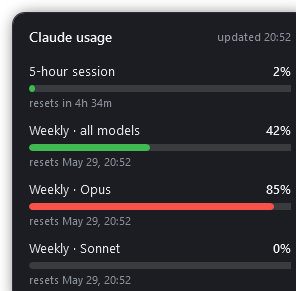
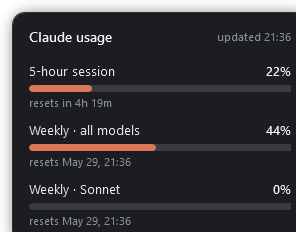
Switch accent to Claude clay; simplify severity to clay/red
Replace the green healthy tier with Claude's clay (#D97757) and drop the
amber middle tier: bars and badge are clay during normal use and turn red
only when a window is critical (>= 80%). Clay reads as a caution hue, so a
clay/amber/red scale was muddy; clay-normal / red-critical keeps clay as the
identity color with red as the sole alarm.

Regenerate docs/flyout.png; refresh docs/menu.png.

Changed region(s): [[0.0912, 0.0905, 1.0, 0.9957], [0.0304, 0.0302, 1.0, 0.0905], [0.7297, 0.0905, 1.0, 0.181]]

diff --git a/src/Severity.cs b/src/Severity.cs
@@ -2,18 +2,18 @@ using System.Windows.Media;
 
 namespace ClaudeStatus;
 
-/// <summary>Shared green/amber/red palette so the tray badge and flyout agree.</summary>
+/// <summary>Shared palette + severity logic for the tray badge and flyout bars.</summary>
 public static class Severity
 {
-    public static readonly Color Green = Color.FromRgb(0x3F, 0xB9, 0x50);
-    public static readonly Color Amber = Color.FromRgb(0xD2, 0x99, 0x22);
+    /// <summary>Claude's clay accent — normal usage.</summary>
+    public static readonly Color Clay = Color.FromRgb(0xD9, 0x77, 0x57);
+
+    /// <summary>Critical — running low on a window.</summary>
     public static readonly Color Red = Color.FromRgb(0xF8, 0x51, 0x49);
+
+    /// <summary>No data available.</summary>
     public static readonly Color Gray = Color.FromRgb(0x6E, 0x76, 0x81);
 
-    public static Color For(double utilization) => utilization switch
-    {
-        >= 80 => Red,
-        >= 50 => Amber,
-        _ => Green,
-    };
+    /// <summary>Clay during normal usage; red once a window gets critical (≥ 80%).</summary>
+    public static Color For(double utilization) => utilization >= 80 ? Red : Clay;
 }